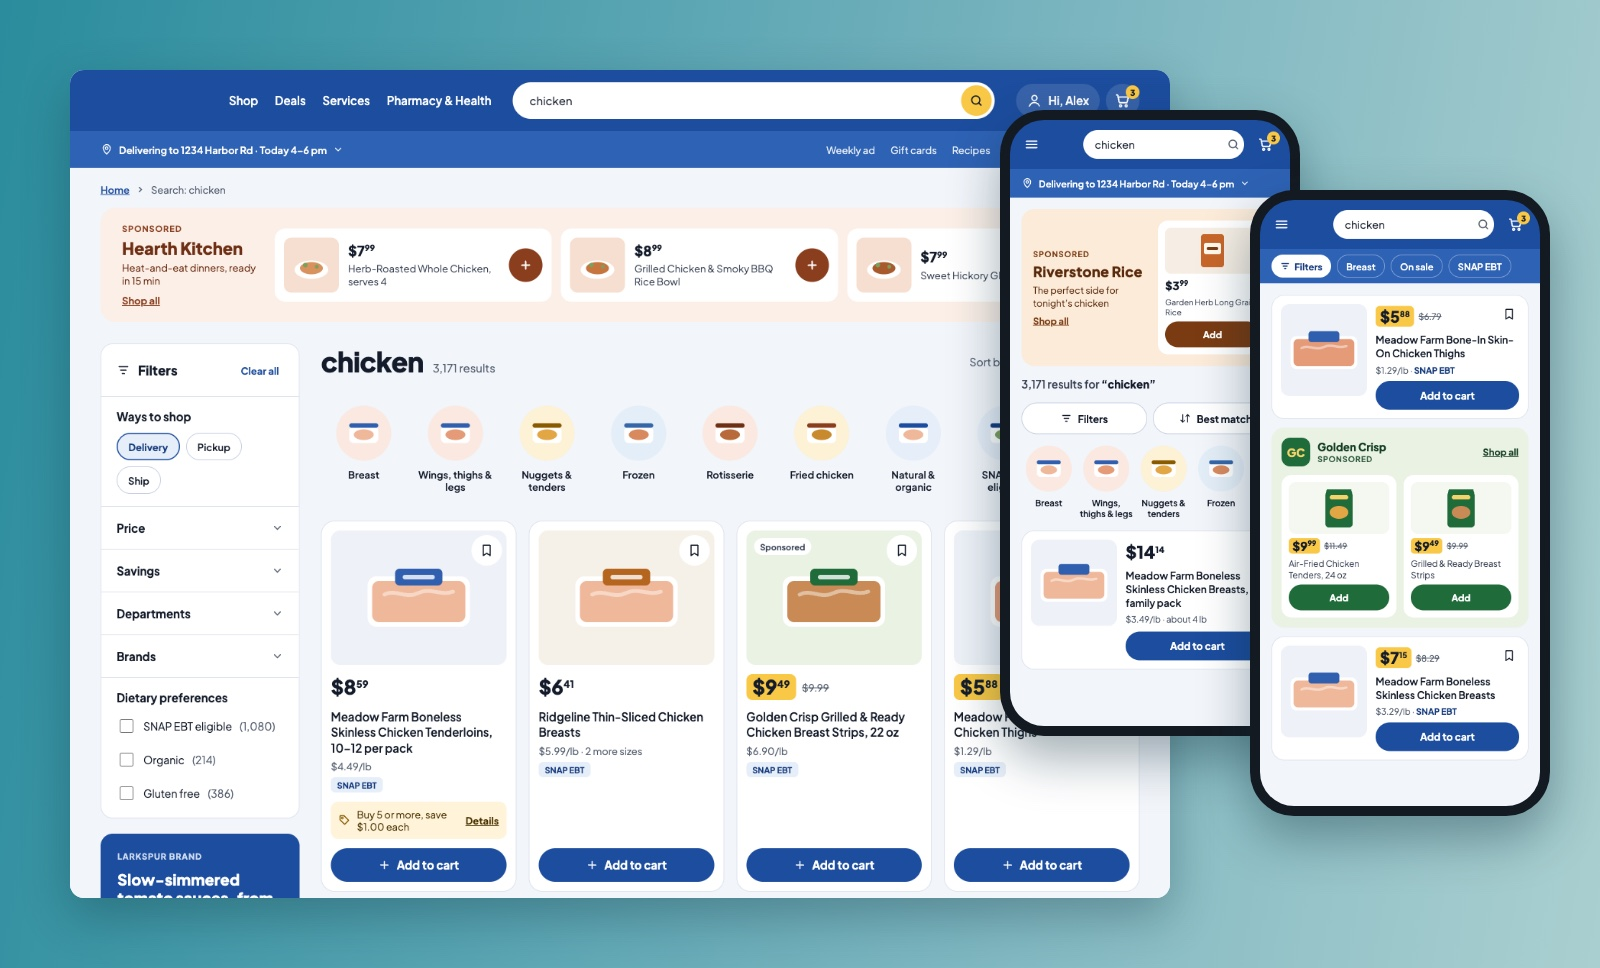
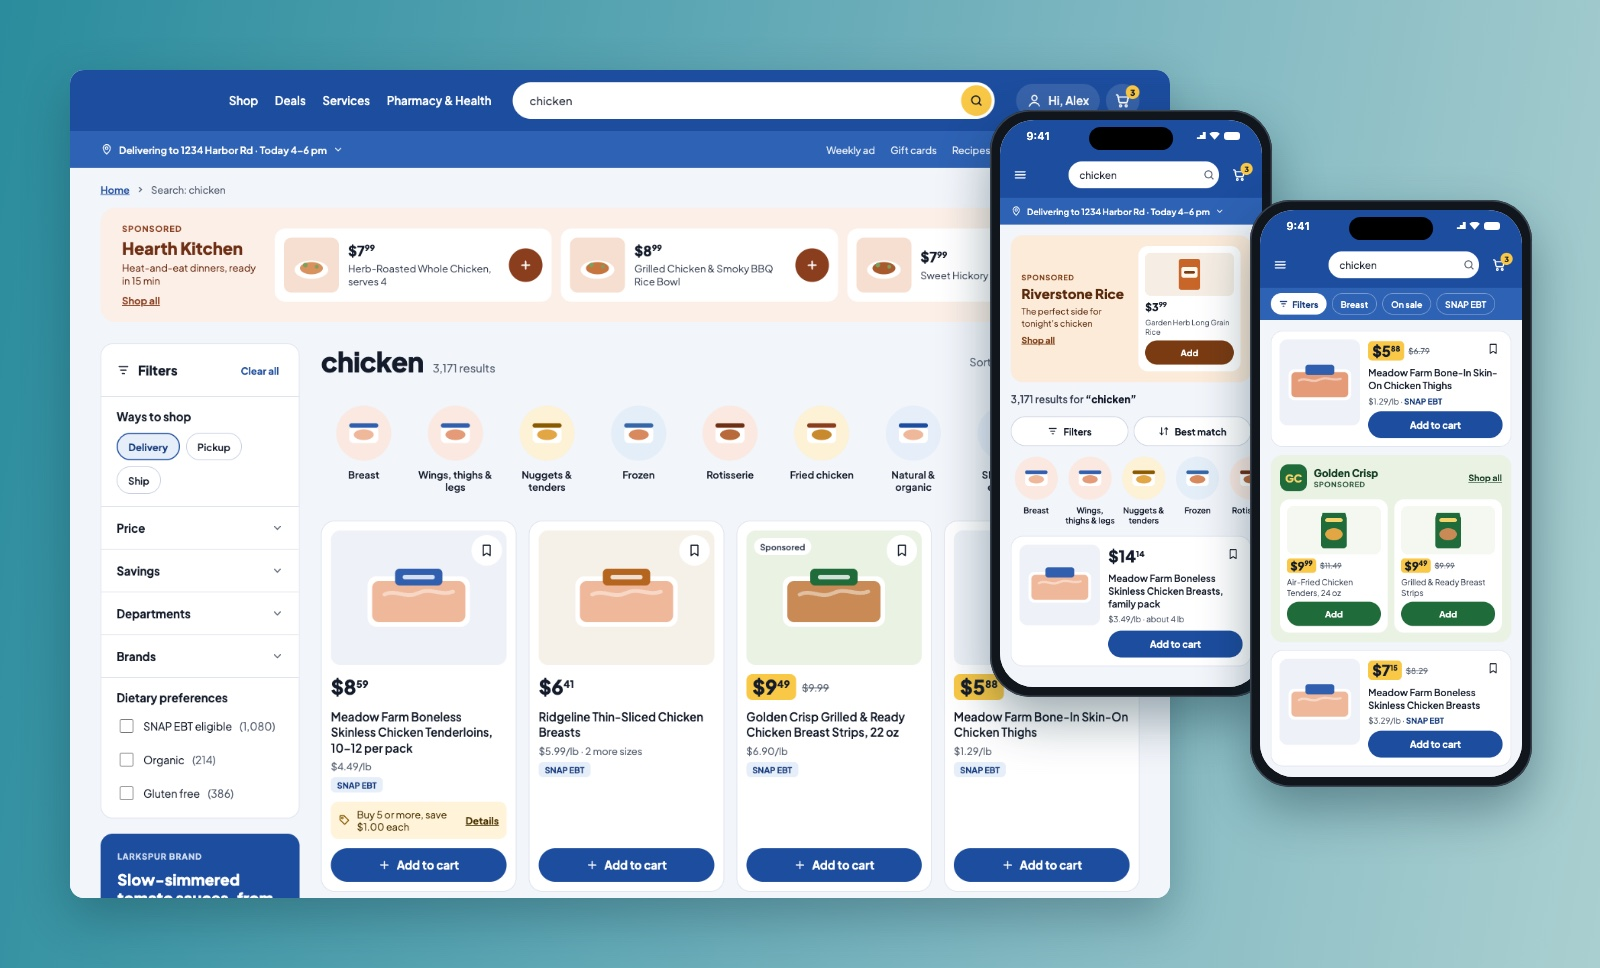
New Sponsored Products hero; realistic phone frames in heroes and card images

Changed region(s): [[0.5938, 0.093, 0.9688, 0.8678]]

diff --git a/product-designer/case-study-sponsored-products.html b/product-designer/case-study-sponsored-products.html
@@ -73,8 +73,8 @@
        <img src="../images/YOUR-FILE.png" alt="Describe the image" class="cs-image">
   -->
   <div class="container--narrow" style="padding-block: var(--space-8) 0;">
-    <img src="../images/promoted-visual-carousel.jpg"
-         alt="Promoted Visual Carousel on Kroger web desktop and mobile: a brand-owned featured module with a lifestyle image and a scrollable product list"
+    <img src="../images/sponsored-hero-desktop-mobile.jpg"
+         alt="Sponsored carousel on desktop and mobile: a brand module with a lifestyle image, headline and a scrollable list of products with coupons and Add to cart buttons"
          class="cs-image">
   </div>
 

diff --git a/case-study-sponsored-products.html b/case-study-sponsored-products.html
@@ -73,8 +73,8 @@
        <img src="images/YOUR-FILE.png" alt="Describe the image" class="cs-image">
   -->
   <div class="container--narrow" style="padding-block: var(--space-8) 0;">
-    <img src="images/promoted-visual-carousel.jpg"
-         alt="Promoted Visual Carousel on Kroger web desktop and mobile: a brand-owned featured module with a lifestyle image and a scrollable product list"
+    <img src="images/sponsored-hero-desktop-mobile.jpg"
+         alt="Sponsored carousel on desktop and mobile: a brand module with a lifestyle image, headline and a scrollable list of products with coupons and Add to cart buttons"
          class="cs-image">
   </div>
 
